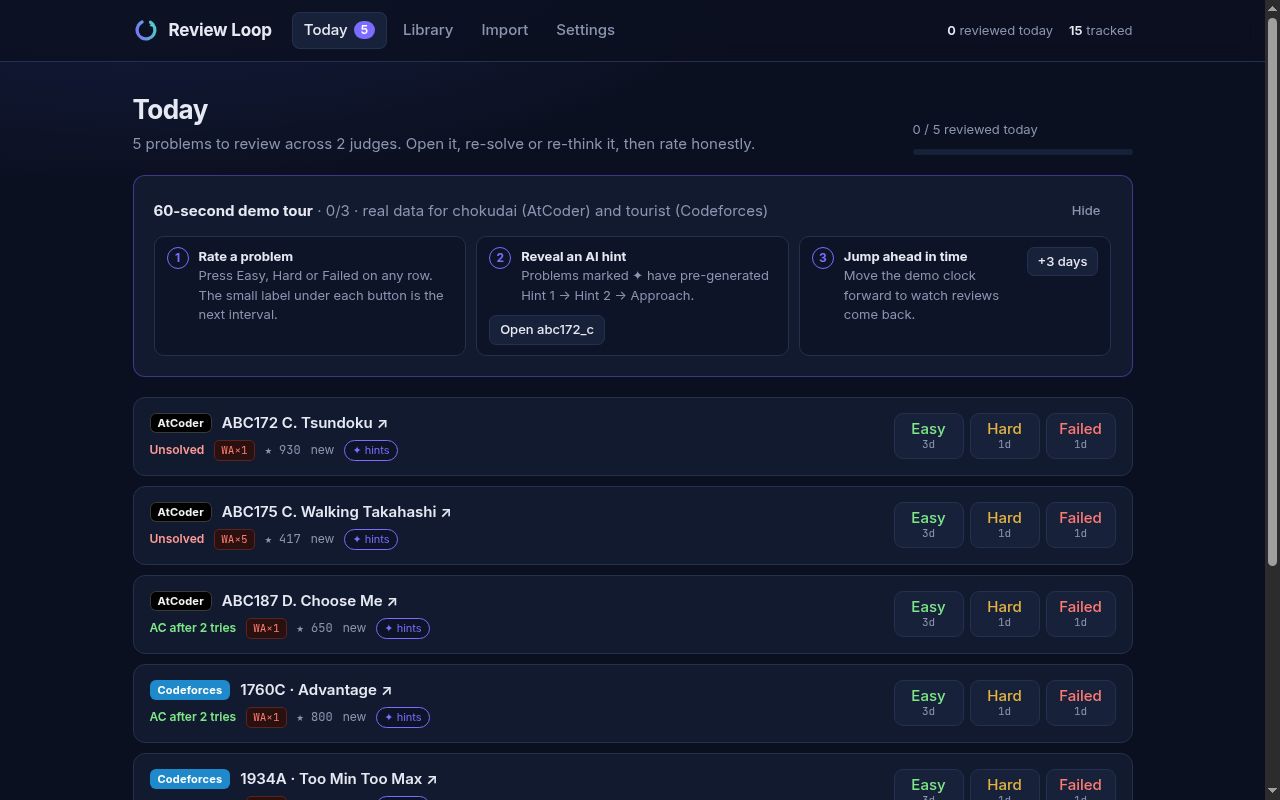
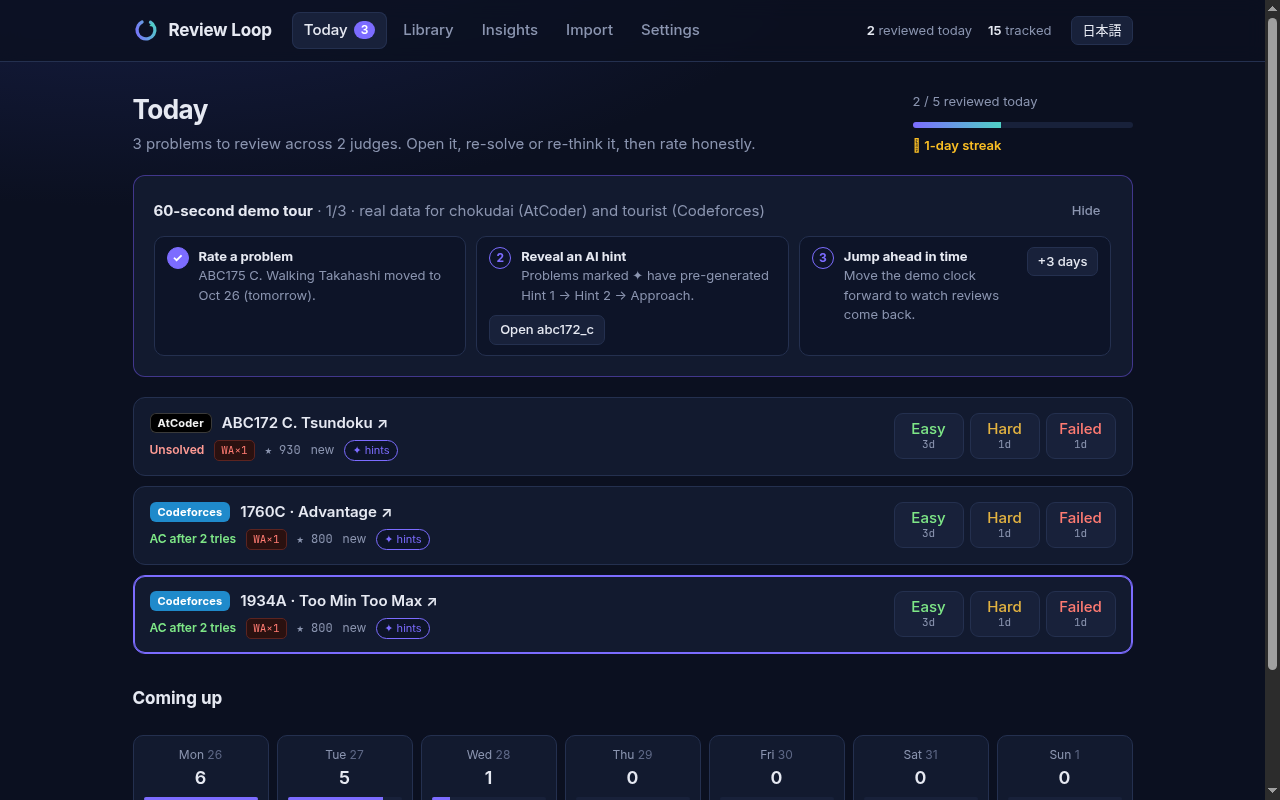
Keyboard shortcuts on Today: J/K move, E/H/F rate, O open

diff --git a/src/components/TodayView.tsx b/src/components/TodayView.tsx
@@ -5,7 +5,8 @@ import { formatInterval, review } from '../lib/srs';
 import { useDemoHints } from '../lib/hints';
 import { selectDue, useStore } from '../lib/store';
 import type { Rating } from '../lib/types';
-import { useState } from 'react';
+import { useEffect, useRef, useState } from 'react';
+import { shortcutFor, shouldIgnoreKeys } from '../lib/shortcuts';
 import { DemoTour } from './DemoTour';
 import { LoopMark } from './Logo';
 import { ReviewRow } from './ReviewRow';
@@ -23,6 +24,14 @@ export function TodayView({ onOpen, onToast, onGo, onDemo }: Props) {
   const [loadingDemo, setLoadingDemo] = useState(false);
   const t = useT();
   const lang = useLang();
+  const [sel, setSel] = useState(0);
+  const [kb, setKb] = useState(false);
+  const onKey = useRef<(e: KeyboardEvent) => void>(() => {});
+  useEffect(() => {
+    const h = (e: KeyboardEvent) => onKey.current(e);
+    window.addEventListener('keydown', h);
+    return () => window.removeEventListener('keydown', h);
+  }, []);
   const all = Object.values(state.problems);
   const due = selectDue(state, today);
   const reviewedToday = state.reviewLog.filter((r) => r.date === today).length;
@@ -75,6 +84,20 @@ export function TodayView({ onOpen, onToast, onGo, onDemo }: Props) {
     onToast(t('{title} → next review {rel} ({date})', { title, rel: relativeDays(next.due, today), date: formatShort(next.due) }));
   };
 
+  const selIdx = Math.min(sel, Math.max(0, due.length - 1));
+  onKey.current = (e) => {
+    const action = shortcutFor(e);
+    if (!action || due.length === 0 || shouldIgnoreKeys(e.target)) return;
+    e.preventDefault();
+    setKb(true);
+    const p = due[selIdx];
+    if (action.type === 'move') {
+      setSel(Math.max(0, Math.min(due.length - 1, selIdx + action.delta)));
+      requestAnimationFrame(() => document.querySelector('.review-row.selected')?.scrollIntoView({ block: 'nearest' }));
+    } else if (action.type === 'rate') rate(p.id, p.title, action.rating);
+    else onOpen(p.id);
+  };
+
   const forecast = Array.from({ length: 7 }, (_, i) => {
     const day = addDays(today, i + 1);
     return { day, n: all.filter((p) => p.card.due === day).length };
@@ -103,10 +126,15 @@ export function TodayView({ onOpen, onToast, onGo, onDemo }: Props) {
 
       {state.settings.demoTour && <DemoTour onOpen={onOpen} onToast={onToast} />}
 
+      {due.length > 0 && (
+        <p className="hint-text kbd-hint">
+          {t('Shortcuts:')} <kbd>J</kbd>/<kbd>K</kbd> {t('move')} · <kbd>E</kbd> <kbd>H</kbd> <kbd>F</kbd> {t('rate')} · <kbd>O</kbd> {t('open')}
+        </p>
+      )}
       {due.length > 0 ? (
         <ul className="review-list" style={{ listStyle: 'none', padding: 0, margin: 0 }}>
-          {due.map((p) => (
-            <ReviewRow key={p.id + p.history.length} problem={p} hasDemoHints={!!demoHints[p.id]} today={today} onOpen={() => onOpen(p.id)} onRate={(r) => rate(p.id, p.title, r)} />
+          {due.map((p, i) => (
+            <ReviewRow key={p.id + p.history.length} selected={kb && i === selIdx} problem={p} hasDemoHints={!!demoHints[p.id]} today={today} onOpen={() => onOpen(p.id)} onRate={(r) => rate(p.id, p.title, r)} />
           ))}
         </ul>
       ) : (

diff --git a/src/components/ReviewRow.tsx b/src/components/ReviewRow.tsx
@@ -9,6 +9,7 @@ import { StruggleStatus, VerdictChips } from './VerdictChips';
 interface Props {
   problem: Problem;
   hasDemoHints?: boolean;
+  selected?: boolean;
   today: string;
   onRate: (rating: Rating) => void;
   onOpen: () => void;
@@ -16,7 +17,7 @@ interface Props {
 
 const LABEL: Record<Rating, string> = { easy: 'Easy', hard: 'Hard', failed: 'Failed' };
 
-export function ReviewRow({ problem, hasDemoHints, today, onRate, onOpen }: Props) {
+export function ReviewRow({ problem, hasDemoHints, selected, today, onRate, onOpen }: Props) {
   const [leaving, setLeaving] = useState(false);
   const t = useT();
   const preview = previewIntervals(problem.card);
@@ -26,7 +27,7 @@ export function ReviewRow({ problem, hasDemoHints, today, onRate, onOpen }: Prop
     setTimeout(() => onRate(r), 220);
   };
   return (
-    <li className={`review-row${leaving ? ' leaving' : ''}`}>
+    <li className={`review-row${leaving ? ' leaving' : ''}${selected ? ' selected' : ''}`} aria-current={selected || undefined}>
       <div className="review-main" onClick={onOpen} role="button" tabIndex={0} onKeyDown={(e) => e.key === 'Enter' && e.target === e.currentTarget && onOpen()} aria-label={`Details for ${problem.title}`}>
         <div className="review-title">
           <JudgeBadge judge={problem.judge} />

diff --git a/src/lib/shortcuts.ts b/src/lib/shortcuts.ts
@@ -1,0 +1,34 @@
+import type { Rating } from './types';
+
+export type ShortcutAction = { type: 'move'; delta: 1 | -1 } | { type: 'rate'; rating: Rating } | { type: 'open' };
+
+interface KeyLike {
+  key: string;
+  metaKey?: boolean;
+  ctrlKey?: boolean;
+  altKey?: boolean;
+}
+
+const MAP: Record<string, ShortcutAction> = {
+  j: { type: 'move', delta: 1 },
+  arrowdown: { type: 'move', delta: 1 },
+  k: { type: 'move', delta: -1 },
+  arrowup: { type: 'move', delta: -1 },
+  e: { type: 'rate', rating: 'easy' },
+  h: { type: 'rate', rating: 'hard' },
+  f: { type: 'rate', rating: 'failed' },
+  o: { type: 'open' },
+};
+
+/** Today-view keyboard shortcuts: J/K move, E/H/F rate, O opens the problem. */
+export function shortcutFor(e: KeyLike): ShortcutAction | null {
+  if (e.metaKey || e.ctrlKey || e.altKey) return null;
+  return MAP[e.key.toLowerCase()] ?? null;
+}
+
+/** Never steal keys while the user is typing or a dialog is open. */
+export function shouldIgnoreKeys(target: EventTarget | null): boolean {
+  const el = target as HTMLElement | null;
+  if (el?.closest?.('input, textarea, select, [contenteditable="true"]')) return true;
+  return !!document.querySelector('[role="dialog"]');
+}

diff --git a/tests/shortcuts.test.ts b/tests/shortcuts.test.ts
@@ -1,0 +1,19 @@
+import { describe, expect, it } from 'vitest';
+import { shortcutFor } from '../src/lib/shortcuts';
+
+describe('shortcutFor', () => {
+  it('maps E/H/F to ratings and J/K to movement (case-insensitive)', () => {
+    expect(shortcutFor({ key: 'e' })).toEqual({ type: 'rate', rating: 'easy' });
+    expect(shortcutFor({ key: 'H' })).toEqual({ type: 'rate', rating: 'hard' });
+    expect(shortcutFor({ key: 'f' })).toEqual({ type: 'rate', rating: 'failed' });
+    expect(shortcutFor({ key: 'j' })).toEqual({ type: 'move', delta: 1 });
+    expect(shortcutFor({ key: 'ArrowUp' })).toEqual({ type: 'move', delta: -1 });
+    expect(shortcutFor({ key: 'o' })).toEqual({ type: 'open' });
+  });
+
+  it('ignores other keys and browser shortcuts like Ctrl+F', () => {
+    expect(shortcutFor({ key: 'x' })).toBeNull();
+    expect(shortcutFor({ key: 'f', ctrlKey: true })).toBeNull();
+    expect(shortcutFor({ key: 'e', metaKey: true })).toBeNull();
+  });
+});

diff --git a/src/lib/i18n.ts b/src/lib/i18n.ts
@@ -205,6 +205,10 @@ export const JA: Record<string, string> = {
   "{n}-day streak": "{n}日連続",
   "Has ✦ hints": "✦ ヒントあり",
   "Select ✦ hint problems": "✦ ヒント付きを選択",
+  "Shortcuts:": "ショートカット:",
+  "move": "移動",
+  "rate": "評価",
+  "open": "開く",
   'import.invalid': '「{handle}」は{judge}のハンドルとして正しくありません（英数字と _ のみ）。打ち間違いや余分な空白を確認してください。',
   'import.not-found': '{judge}で「{handle}」の提出が見つかりません。ハンドルの綴りを確認してください。',
   'import.rate-limit': '{judge}のAPIがレート制限中です。少し待ってから再試行してください。',

diff --git a/src/styles.css b/src/styles.css
@@ -269,3 +269,9 @@ td.overdue { font-size: 14px; }
 .forecast-mini { margin-top: 0; }
 .streak-pill { margin-top: 8px; font-size: 13px; font-weight: 600; color: #fbbf24; }
 @media (max-width: 720px) { .hm { width: 10px; height: 10px; } .heatmap, .hm-col { gap: 2px; } }
+
+/* ---------- keyboard ---------- */
+.kbd-hint { margin: 0 0 10px; }
+kbd { font-family: var(--mono); font-size: 11px; padding: 1px 6px; border-radius: 5px; border: 1px solid var(--border); border-bottom-width: 2px; background: var(--surface-2); color: var(--text); }
+.review-row.selected { border-color: var(--accent); box-shadow: inset 0 0 0 1px var(--accent); }
+@media (hover: none) { .kbd-hint { display: none; } }

diff --git a/README.md b/README.md
@@ -31,6 +31,7 @@ Student competitive programmers who practise on several judges and keep forgetti
 - **Library & problem drawer** — filter/search everything, write a **mistake note** (shown on Today), see review history and an estimated **memory curve**, reveal tags as a spoiler-level hint.
 - **Insights (weak-spot analysis)** — failure counts and review results by **algorithm tag** (Codeforces) and **difficulty band** (both judges), a recall-rate summary, and **“Top 3 weak spots this week”** ranked from your Failed/Hard reviews in the last 7 days (falls back to import history before you review), each with the problems to practise first.
 - **Consistency** — review **streak** (current / longest, also shown on Today), a **GitHub-style heatmap** of daily reviews for the last 20 weeks, and how many reviews are due on each of the **next 7 days**.
+- **Keyboard-first reviewing** — on Today, <kbd>J</kbd>/<kbd>K</kbd> (or ↑/↓) move, <kbd>E</kbd> / <kbd>H</kbd> / <kbd>F</kbd> rate Easy / Hard / Failed, <kbd>O</kbd> opens the problem drawer (mistake note, memory curve, hints). Keys are ignored while typing.
 - **Settings** — handles, pace, **demo clock** (jump +1/+3/+7 days to see reviews come due), JSON export/import, reset.
 - **Tiered AI hints** — *Hint 1 → Hint 2 → Approach*, revealed one at a time. Live hints for any problem need `OPENAI_API_KEY` on the local server (the key never reaches the browser). The public site has no server, so it ships **✦ demo hints** pre-generated by AI for 40 of the demo handles' problems (filter them in the Library with “Has ✦ hints”, or pick them in the Import preview with “Select ✦ hint problems”) (`public/demo-hints.json`), clearly labelled as such. Without any of this, everything else still works.
 
